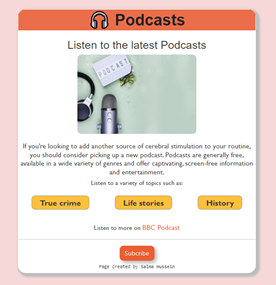
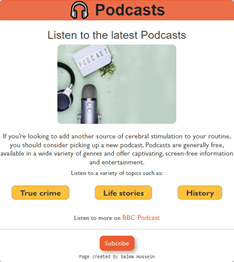
styled the contact page and about me page

diff --git a/styles/app.css b/styles/app.css
@@ -8,6 +8,7 @@
   background-color: #fcebeb;
   text-align: center;
   padding: 160px 0;
+  margin: 50px 10px;
 }
 .hero p {
   font-size: 24px;
@@ -34,7 +35,9 @@ h2 {
   border-radius: 4px;
   font-size: 18px;
   padding: 15px 25px 15px 25px;
+  transition: all 150ms ease-in-out;
 }
+
 .btn-branding:hover {
   background-color: white;
   color: var(--secondary-color);
@@ -47,11 +50,26 @@ h2 {
   padding: 50px 0;
   font-weight: normal;
 }
+.project-description {
+  padding: 40px 80px;
+}
 
 .project-heading {
   font-family: var(--nameheading-font);
   font-weight: 700;
   font-size: 40px;
+}
+
+.podcast-image {
+  width: 400px;
+  background-color: var(--primary-color);
+  padding: 20px 30px;
+}
+
+.weather-image {
+  width: 450px;
+  background-color: var(--primary-color);
+  padding: 20px 20px;
 }
 
 .btn-project {
@@ -61,7 +79,9 @@ h2 {
   border: 1px solid var(--secondary-color);
   border-radius: 4px;
   padding: 10px 25px 10px 25px;
+  transition: all 150ms ease-in-out;
 }
+
 .btn-project:hover {
   background-color: var(--secondary-color);
   color: white;
@@ -72,7 +92,9 @@ h2 {
   color: black;
   font-size: 20px;
   font-family: var(--heading-font);
+  transition: all 150ms ease-in-out;
 }
+
 .email-link:hover {
   color: var(--secondary-color);
 }
@@ -84,11 +106,11 @@ p {
 }
 
 h5 {
-  font-size: 48px;
+  font-size: 55px;
   font-family: var(--nameheading-font);
   font-weight: bold;
-  margin-top: 200px;
-  margin-left: 140px;
+  margin-top: 60px;
+  padding-top: 50px;
 }
 
 .content-box {
@@ -117,6 +139,7 @@ h5 {
 }
 .contact-button {
   border-radius: 10px;
+  transition: all 150ms ease-in-out;
 }
 
 .socials-links a {
@@ -137,18 +160,16 @@ h5 {
 .about-me {
   padding: 120px 90px;
 }
-.about-section {
-  padding-right: 50px;
-}
+
 .about-header {
-  font-size: 36px;
+  font-size: 40px;
 }
 .name {
-  font-size: 48px;
+  font-size: 52px;
 }
 
 .subheader {
-  font-size: 18px;
+  font-size: 20px;
   margin-top: -10px;
 }
 .about-me-para {
@@ -174,7 +195,19 @@ h5 {
 .about-content-box {
   margin-top: -20px;
 }
+
+.contact-hero {
+  background-color: var(--primary-color);
+  padding-left: 100px;
+  padding-right: 100px;
+  padding-bottom: 20px;
+  margin: 50px 10px;
+}
 @media (max-width: 576px) {
+  .hero {
+    margin: 80px 10px;
+    padding: 100px 0;
+  }
   .hero p {
     font-size: 22px;
   }
@@ -187,17 +220,33 @@ h5 {
     font-size: 16px;
     margin-top: 0;
   }
+  .project-description {
+    margin-top: -80px;
+    padding: 20px;
+  }
+  .project-heading {
+    font-size: 36px;
+  }
+  .para {
+    font-size: 16px;
+  }
+  .btn-branding {
+    font-size: 16px;
+    padding: 10px 20px 10px 20px;
+  }
   .btn-project {
     display: block;
     text-align: center;
+    font-size: 16px;
   }
   h4 {
     text-align: center;
   }
   h5 {
-    font-size: 38px;
-    margin-left: 40px;
+    font-size: 28px;
+    margin-top: -20px;
   }
+
   .content-box {
     margin-left: 40px;
     margin-right: 40px;
@@ -213,7 +262,6 @@ h5 {
     font-size: 24px;
     font-family: var(--nameheading-font);
     font-weight: bold;
-    line-height: 50px;
   }
   .email-link {
     font-size: 16px;
@@ -235,20 +283,20 @@ h5 {
 
   .about-me {
     text-align: center;
-    padding: 0;
+    padding: 0 10px;
   }
   .about-header {
-    font-size: 24px;
+    font-size: 28px;
     padding-top: 30px;
   }
   .name {
-    font-size: 32px;
+    font-size: 38px;
   }
   .subheader {
-    font-size: 14px;
+    font-size: 16px;
   }
   .about-me-para {
-    font-size: 14px;
+    font-size: 16px;
   }
   .about-project {
     font-size: 14px;
@@ -259,5 +307,13 @@ h5 {
     margin-top: 30px;
     margin-bottom: 30px;
     width: 300px;
+  }
+
+  .contact-hero {
+    background-color: var(--primary-color);
+    text-align: center;
+    margin: 80px 30px;
+    padding-left: 50px;
+    padding-right: 50px;
   }
 }

diff --git a/contact.html b/contact.html
@@ -20,23 +20,50 @@
       href="https://fonts.googleapis.com/css2?family=Montserrat:wght@400;700&family=Poppins&display=swap"
       rel="stylesheet"
     />
-   <script src="https://kit.fontawesome.com/1a847a7ffa.js" crossorigin="anonymous"></script>
+    <script
+      src="https://kit.fontawesome.com/1a847a7ffa.js"
+      crossorigin="anonymous"
+    ></script>
     <link rel="stylesheet" href="/styles/app.css" />
     <title>Contact</title>
   </head>
   <body>
-    <h5 class="contact-heading">Let's connect and create!</h5>
+    <div class="contact-hero mb-5">
+      <h5 class="contact-heading">Let's connect and create!</h5>
+      <p class="contact-para mt-4 mb-4">
+        Want to create your next experience together or have any questions? Get
+        in touch via:
+      </p>
+      <hr />
+      <div class="d-inline contact-details">
+        <div></div>
+          <h2 class="email">Email</h2>
+          <a href="mailto:salmahussein430@outlook.com" class="email-link"
+            >salmahussein430@outlook.com</a
+          >
+        </div>
 
-    <div class="content-box  justify-content-between mb-5 d-none d-md-flex">
-      <div class="email-details">
-        <h6 class="email">Work Inquiry</h6>
-        <p class="text-muted contact-para">
-          Lets work together to create cool new experiences
-        </p>
-      </div>
-      <div>
-        <a href="mailto:salmahussein430@outlook.com" class="btn btn-branding mt-5 mb-5 me-5 contact-button"">Contact me</a>
+        <div>
+          <h2 class="email mt-2">Phone</h2>
+          <a href="#" class="email-link">+44 7341942131</a>
+        </div>
+
+        <div>
+          <h2 class="email mt-2">Linkedin</h2>
+          <a
+            href="https://www.linkedin.com/in/salma-hussein-57a458132/"
+            class="email-link mb-5"
+            >Salma Hussein</a
+          >
+        </div>
       </div>
     </div>
+     <div class="d-flex justify-content-center"> <a href="mailto:salmahussein430@outlook.com" class="email-link">salmahussein430@outlook.com</a></div>
+      <div class="socials-links text-center text-decoration-none">
+         <a href="#"><i class="fab fa-instagram"></i></a>
+         <a href="#"><i class="fab fa-github"></i></a>
+        <a href="#"> <i class="fab fa-twitter"></i></a>
+        <a href="#"> <i class="fab fa-linkedin"></i></a>
+      </div>
   </body>
 </html>

diff --git a/index.html b/index.html
@@ -40,13 +40,13 @@
           <img
             src="images/podcast.png"
             alt="podcast-web"
-            class="img-fluid rounded d-none d-sm-block w-75"
+            class="img-fluid rounded d-none d-sm-block mx-auto podcast-image"
           />
         </div>
         <div class="col-md-6">
           <div class="project-description">
           <h4 class="project-heading mb-5">Podcast Project</h4>
-          <p class="mb-5 text-muted">
+          <p class="mb-5 text-muted para">
             Lorem ipsum dolor sit amet consectetur adipisicing elit. Perferendis
             quia, dignissimos nam ratione veniam quibusdam porro omnis quam vel
             eos eveniet alias temporibus deserunt veritatis minima fugiat
@@ -62,8 +62,9 @@
       <div class="row mt-5">
         <div class="col-md-6">
           
-          <h4 class="project-heading mb-5">Weather App Project </h4>
-          <p class="mb-5 text-muted">
+           <div class="project-description">
+          <h4 class="project-heading mb-5 mt-5">Weather App Project </h4>
+          <p class="mb-5 text-muted para">
             Lorem ipsum dolor sit amet consectetur adipisicing elit. Perferendis
             quia, dignissimos nam ratione veniam quibusdam porro omnis quam vel
             eos eveniet alias temporibus deserunt veritatis minima fugiat
@@ -73,18 +74,19 @@
           <div class="mt-3">
              <a href="#" class="btn btn-project mb-5">View project</a>
           </div>
+          </div>
         </div>
         <div class="col-md-6">
           <img
             src="images/weather.png"
             alt="weather-app"
-           class="img-fluid rounded d-none d-sm-block mb-5 w-75"
+           class="img-fluid rounded d-none d-sm-block mb-5 mx-auto weather-image"
           
           />
         </div>
         </div>
         </div>
-          <div class="content-box justify-content-between mb-5 d-none d-md-flex ">
+          <div class="content-box justify-content-between mb-5 d-none d-md-flex">
       <div class="email-details">
         <h6 class="email">Work Inquiry</h6>
         <p class="text-muted contact-para">

diff --git a/about.html b/about.html
@@ -34,14 +34,14 @@
           <div class="about-section">
           <h3 class="about-header">About Me</h3>
           <h1 class="mt-3 name">Salma Hussein</h1>
-          <h2 class="subheader ">Frontend Developer | Based in the UK</h2>
-          <p class="about-me-para">
+          <h2 class="subheader mt-3">Frontend Developer | Based in the UK</h2>
+          <p class="about-me-para text-muted">
             Lorem ipsum dolor sit amet consectetur adipisicing elit. Perferendis
             quia, dignissimos nam ratione veniam quibusdam porro omnis quam vel
             eos eveniet alias temporibus deserunt veritatis minima fugiat
             explicabo eum dolore.
           </p></div>
-          <a href="/work.html" class="btn btn-branding mt-5 about-project"
+          <a href="/work.html" class="btn btn-branding mt-4 about-project"
             >See projects</a
           >
         </div>
